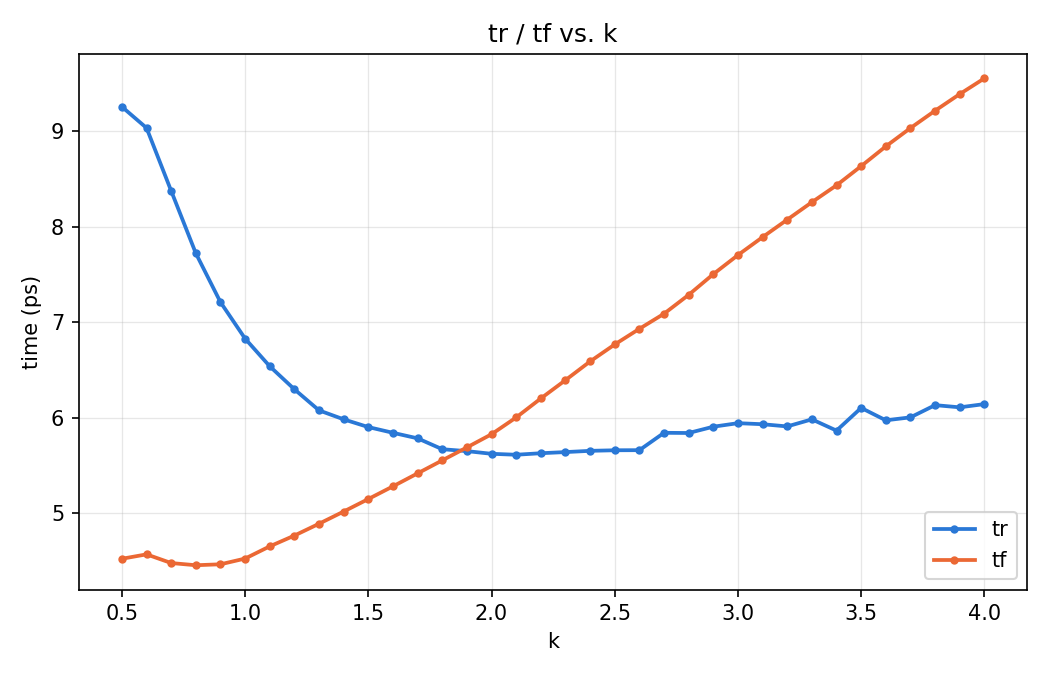
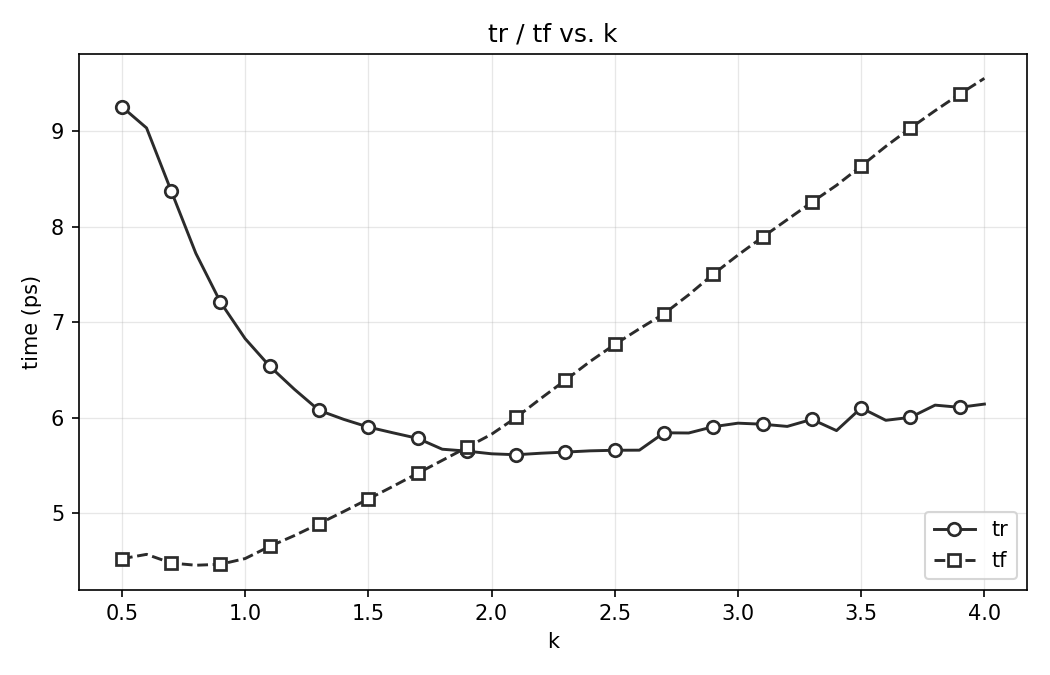
Differentiate plot series by marker/linestyle instead of color
Grayscale/print-safe: same ink color, distinct marker shape + line
style per series (circle/solid vs square/dashed), open markers on a
white face so overlapping points stay legible.

Claude-Session: https://claude.ai/code/session_012s4HdYte43AEKKhAtjEaGk

diff --git a/mt0_report.py b/mt0_report.py
@@ -73,13 +73,18 @@ def plot_pairs(columns, rows, pairs, scale, xlabel, ylabel, out_dir):
 
     idx = {c: i for i, c in enumerate(columns)}
     x = [float(r[0]) for r in rows]
-    colors = ["#2a78d6", "#eb6834", "#1baf7a", "#eda100"]
+    markers = ["o", "s", "^", "D"]
+    linestyles = ["-", "--", "-.", ":"]
+    ink = "#2b2b2b"
 
     for pair in pairs:
         fig, ax = plt.subplots(figsize=(7, 4.5), dpi=150)
-        for series, color in zip(pair, colors):
+        for i, series in enumerate(pair):
             y = [float(r[idx[series]]) * scale for r in rows]
-            ax.plot(x, y, color=color, marker="o", ms=3, lw=1.8, label=series)
+            ax.plot(x, y, color=ink, marker=markers[i % len(markers)],
+                     linestyle=linestyles[i % len(linestyles)],
+                     ms=6, mfc="white", mew=1.3, lw=1.4,
+                     markevery=2, label=series)
         ax.set_xlabel(xlabel)
         ax.set_ylabel(ylabel)
         ax.set_title(" / ".join(pair) + f" vs. {columns[0]}")
